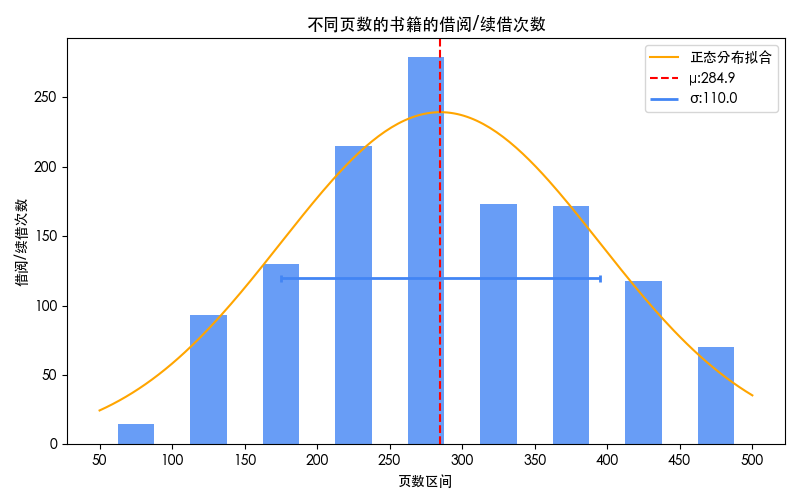
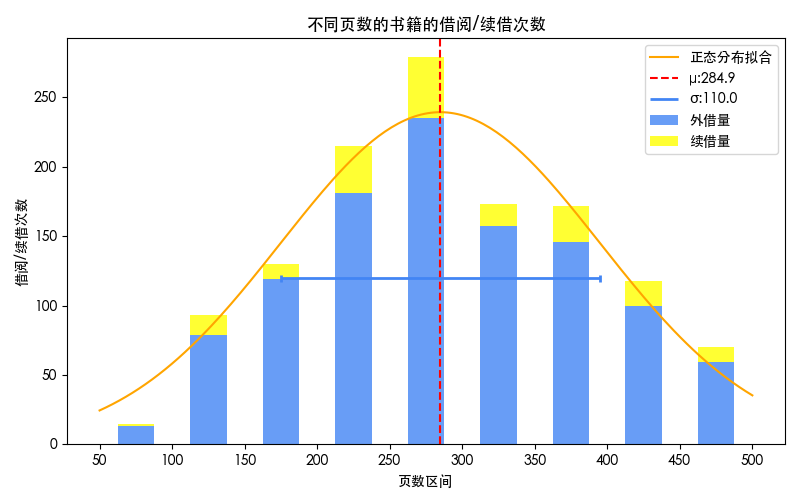
页数 finished

diff --git a/code/页数.py b/code/页数.py
@@ -23,6 +23,9 @@ df=df[df['pages'] > 50]
 df['pages_range'] = pd.cut(df['pages'], bins=bins, labels=labels, right=False)
 counts = df['pages_range'].value_counts().sort_index()
 
+
+counts_separate = df.groupby(["pages_range", "Circulation Type"]).size().unstack(fill_value=0).reset_index()
+print(counts_separate)
 print(counts)
 pages_mean=0
 indexer=0
@@ -53,7 +56,8 @@ plt.rcParams['axes.unicode_minus'] = False  # 负号正常显示
 fig, ax = plt.subplots(1, 1, figsize=(8, 5))
 
 
-ax.bar(bins_mid, counts.values, width=25,color='#4285F4', alpha=0.8)
+ax.bar(bins_mid, counts_separate["外借"], width=25,color='#4285F4', alpha=0.8,label="外借量")
+ax.bar(bins_mid, counts_separate["续借"], bottom=counts_separate["外借"],width=25,color='yellow', alpha=0.8,label="续借量")
 ax.set_xlabel('页数区间')
 
 ax.xaxis.set_major_locator(MaxNLocator(10))